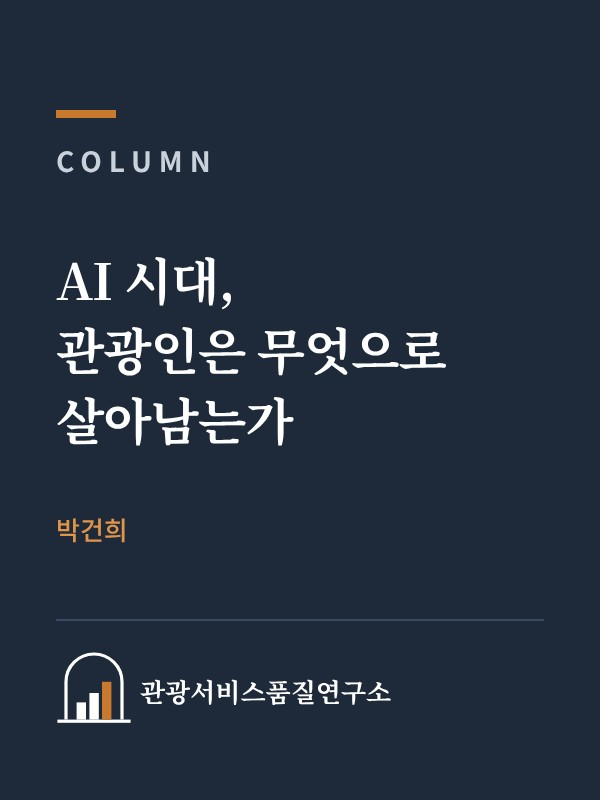
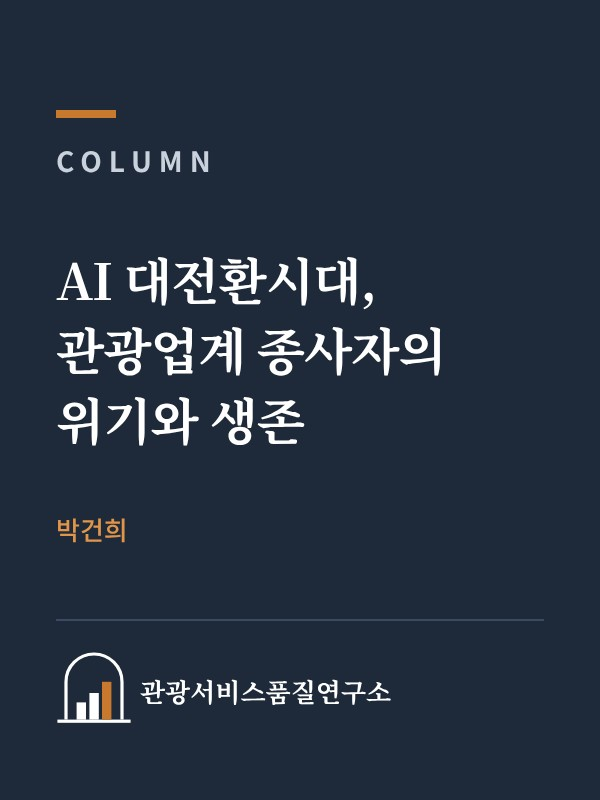
칼럼 전면 개정: AI 대전환시대, 관광업계 종사자의 위기와 생존에 대한 고찰(한·영)
- 제목 변경, '저자' 시점, 가이드 어조
- 타 산업 대체 사례(세일즈포스, 클라르나, WEF 2025)와 관광업계의 차이(헨나 호텔)
- 관광업계 종사자의 미래 전망(줄어드는/바뀌는/커지는 일)과 준비 가이드
- 표지 문구 변경

Claude-Session: https://claude.ai/code/session_01GuA5AHQ235NWh93TgZjSNS

Changed region(s): [[0.21, 0.3125, 0.75, 0.4688], [0.09, 0.5, 0.51, 0.5625]]

diff --git a/scripts/thumbs/covers_columns.py b/scripts/thumbs/covers_columns.py
@@ -17,7 +17,7 @@ SERIF = "'Noto Serif CJK KR','Noto Serif KR',serif"
 LOGO = lambda x, y, s: f'<g transform="translate({x} {y}) scale({s})"><path d="M50 347 V160 A140 140 0 0 1 330 160 V347" fill="none" stroke="{WHITE}" stroke-width="16"/><rect x="7" y="348" width="366" height="16" fill="{WHITE}"/><rect x="103" y="262" width="47" height="86" fill="{WHITE}"/><rect x="167" y="215" width="47" height="133" fill="{WHITE}"/><rect x="230" y="159" width="47" height="189" fill="{ORANGE}"/></g>'
 
 COVERS = {
-    'column-surviving-in-the-ai-era': (['AI 시대,', '관광인은 무엇으로', '살아남는가'], '박건희'),
+    'column-surviving-in-the-ai-era': (['AI 대전환시대,', '관광업계 종사자의', '위기와 생존'], '박건희'),
     'column-testing-is-asking': (['테스트는', '질문이다'], '박건희'),
     'column-kiosk-and-front-manager': (['키오스크가 두려웠던', '프런트 매니저가', '품질을 묻게 되기까지'], '박건희'),
     'column-housekeeping-seven-principles': (['하우스키핑 점검표로', '읽는 소프트웨어', '테스트 7원칙'], '박건희'),
@@ -28,7 +28,7 @@ COVERS = {
 }
 
 COVERS_EN = {
-    'column-surviving-in-the-ai-era': (['How Tourism', 'Workers Survive', 'the AI Era'], 'Winston Park'),
+    'column-surviving-in-the-ai-era': (['Crisis and', 'Survival in the', 'AI Transition'], 'Winston Park'),
     'column-testing-is-asking': (['Testing Is', 'Asking', 'Questions'], 'Winston Park'),
     'column-kiosk-and-front-manager': (['The Front Office', 'Manager Who', 'Feared Kiosks'], 'Winston Park'),
     'column-housekeeping-seven-principles': (['Seven Testing', 'Principles in a', 'Housekeeping List'], 'Winston Park'),

diff --git a/content/posts/column-surviving-in-the-ai-era.md b/content/posts/column-surviving-in-the-ai-era.md
@@ -1,79 +1,104 @@
 ---
-title: 비개발자 소장이 홈페이지를 만든 시대, 관광인은 무엇으로 살아남는가
-subtitle: '할 줄 아는 사람'의 시대가 저물고 '무엇이 맞는지 아는 사람'의 시대가 온다
+title: AI 대전환시대, 관광업계 종사자의 위기와 생존에 대한 고찰
+subtitle: 다른 산업의 대체 사례로 관광업계의 차이와 미래를 짚어 보고, 현장 종사자가 준비할 길을 함께 찾는다
 category: column
 author: director
 thumbnail: /images/posts/column-surviving-in-the-ai-era.jpg
 thumbnail_alt: AI 시대에 관광업계 종사자의 역량이 '할 줄 아는가'에서 '무엇을 할지 아는가, 맞는지 판단하는가, 책임질 수 있는가'로 옮겨 가는 모습을 나타낸 도식
 cover: /images/posts/column-surviving-in-the-ai-era-cover.jpg
 date: 2026-11-12
-summary: 코드 한 줄 써 본 적 없는 필자가 AI와 함께 연구소 홈페이지를 만들고 운영하고 있다. 할 줄 아는 것의 장벽이 무너지는 시대에 관광업계 종사자가 지켜야 할 것은 무엇인가. 업무를 나눠 보는 법부터 확인 규칙, 현장 지식의 문서화, 관리자의 역할까지 현실적인 방법을 제안한다.
-tags: [칼럼, 소장칼럼, AI, 관광인력, 직무역량, 환대]
+summary: 고객 상담과 사무직에서는 AI가 이미 사람의 일을 대신하기 시작했다. 다른 산업의 실제 사례를 통해 관광업계가 무엇이 다른지 살펴보고, 관광업계 종사자의 일이 어떻게 바뀔지 전망한 뒤, 현장 종사자가 지금부터 준비할 수 있는 길잡이를 제시한다.
+tags: [칼럼, 소장칼럼, AI, 관광인력, 직무역량, 환대, 미래전망]
 references:
+  - "World Economic Forum (2025.1.8). Future of Jobs Report 2025: 78 Million New Job Opportunities by 2030 but Urgent Upskilling Needed to Prepare Workforces. https://www.weforum.org/press/2025/01/future-of-jobs-report-2025-78-million-new-job-opportunities-by-2030-but-urgent-upskilling-needed-to-prepare-workforces/"
   - "World Economic Forum (2025.1). The Future of Jobs Report 2025. Chapter 3: Skills outlook. https://www.weforum.org/publications/the-future-of-jobs-report-2025/in-full/3-skills-outlook/"
+  - "TechRepublic (2025.9.3). Salesforce 'Needs Less Heads,' So It Cut 4,000 Jobs, As AI Takes Over. https://www.techrepublic.com/article/news-salesforce-cuts-4k-jobs/"
+  - "Computing (2025). Salesforce confirms 4,000 job cuts as AI takes over customer support. https://www.computing.co.uk/news/2025/ai/salesforce-confirm-4000-ai-driven-job-cuts"
+  - "Entrepreneur (2025.5.9). Klarna Is Hiring Customer Service Agents After AI Couldn't Cut It on Calls, According to the Company's CEO. https://www.entrepreneur.com/business-news/klarna-ceo-reverses-course-by-hiring-more-humans-not-ai/491396"
+  - "The Register (2019.1.15). World's first robot hotel massacres half of its robot staff (Wall Street Journal 보도 인용). https://www.theregister.com/2019/01/15/worlds_first_robot_hotel_massacres_robot_staff/"
   - "박건희 (2026). *이제 QA, AI Agent랑 같이 합시다*. 부크크."
 ---
 
-이 글이 실린 홈페이지는 내가 만들었다. 정확히 말하면 AI와 함께 만들었다.
+이 칼럼이 실린 연구소 홈페이지는 저자가 AI와 함께 만들었다.
 
-나는 개발자가 아니다. 이 홈페이지를 만들기 전까지 Git이라는 도구를 써 본 적도, Cloudflare라는 서비스의 이름을 들어 본 적도 거의 없었다. 그런데 지금 연구소 홈페이지는 자체 도메인을 달고 운영되고 있고, 관광정책과 호텔 산업 동향을 다룬 글이 꾸준히 올라오며, 한국어와 영어 두 언어로 읽힌다. 기사 초안을 쓰고, 도식을 그리고, 영어로 옮기고, 사이트에 올리는 일의 상당 부분을 AI가 함께 한다.
+저자는 개발자가 아니다. 이 홈페이지를 만들기 전까지 Git이라는 도구를 써 본 적도, Cloudflare라는 서비스를 다뤄 본 적도 없었다. 그런데 지금 연구소 홈페이지는 자체 도메인으로 운영되고, 관광정책과 호텔 산업 동향을 다룬 글이 꾸준히 올라오며, 한국어와 영어 두 언어로 읽힌다. 기사 초안을 쓰고, 도식을 그리고, 영어로 옮기고, 사이트에 올리는 일의 상당 부분을 AI가 함께 한다. 불과 얼마 전까지는 상상하기 어려운 일이었다.
 
-불과 얼마 전까지는 상상도 하지 못한 일이다. 웹사이트 하나를 만들려면 개발자를 구하고, 견적을 받고, 몇 달을 기다려야 했다. 그 모든 과정이 대화 몇 번으로 줄었다. 신기하고 편리하다. 그러나 솔직히 말하면, 그 편리함 뒤에서 오래전 프런트 데스크에서 느꼈던 것과 비슷한 질문이 다시 떠올랐다. 이렇게 AI가 다 할 수 있다면, 사람은 무엇으로 남는가.
+신기하고 편리한 경험이지만, 그 편리함은 한 가지 질문을 남겼다. 비전문가 한 사람이 AI와 함께 웹사이트를 만들 수 있다면, 관광업계에서 사람이 해 오던 일은 앞으로 어떻게 될 것인가. 이 글은 그 질문에 대한 저자의 생각을 정리한 것이다. 정답을 제시하려는 글이라기보다, 같은 고민을 하는 현장의 동료들과 함께 길을 찾아보려는 글로 읽어 주시면 좋겠다.
 
-## 무너진 것은 '할 줄 아는가'의 장벽이다
+## 다른 산업에서는 이미 시작되었다
 
-홈페이지를 만들며 분명히 알게 된 것이 있다. AI가 무너뜨린 것은 '할 줄 아는가'의 장벽이라는 점이다. 코드를 짤 줄 몰라도, 영어 문장을 다듬을 줄 몰라도, 도식을 그릴 줄 몰라도 결과물을 만들 수 있게 되었다. 관광업계도 다르지 않다. 고객 문의에 답하고, 리뷰에 답글을 달고, 보고서를 쓰고, 요금을 예측하는 일에 이미 AI가 들어와 있다.
+AI가 사람의 일을 대신하는 변화는 더 이상 먼 미래의 예측이 아니다. 가장 먼저 영향을 받은 곳은 고객 상담과 사무 업무이다.
 
-이 변화의 속도는 수치로도 확인된다. 세계경제포럼(WEF)의 「미래 일자리 보고서 2025(The Future of Jobs Report 2025)」에서 고용주들은 2030년까지 노동자가 가진 핵심 역량의 39%가 바뀔 것으로 내다보았고, 가장 빠르게 수요가 늘어날 역량으로 AI와 빅데이터를 꼽았다. 호텔 업계 역시 이미 깊숙이 들어와 있다. 연구소가 소개한 해외 조사에서는 호텔 체인의 91%가 AI를 쓰고 있었다([호텔 체인 91%가 AI를 쓰지만 성과를 확인한 곳은 13%, 도입보다 준비가 문제다](/posts/hotel-chain-ai-readiness-2026/)).
+미국의 기업용 소프트웨어 기업 세일즈포스(Salesforce)의 마크 베니오프(Marc Benioff) 최고경영자는 2025년 9월 한 팟캐스트에서 AI 에이전트 도입 이후 고객 지원 인력을 약 9,000명에서 5,000명으로 줄였다고 밝혔다. 그의 설명에 따르면 고객 대화의 절반은 AI가, 나머지 절반은 사람이 맡고 있다.
 
-그렇다면 '할 줄 아는 것'이 더 이상 경쟁력이 되지 못하는 시대에, 관광업계 종사자는 무엇을 붙들어야 하는가.
+반대 방향의 사례도 있다. 스웨덴의 결제 기업 클라르나(Klarna)는 2024년 2월 AI 상담원이 상담 직원 700명의 일을 하고 있다고 발표했지만, 2025년 5월에는 다시 상담 직원을 뽑기 시작했다. 세바스찬 시미아트코프스키(Sebastian Siemiatkowski) 최고경영자는 AI 중심 전략이 비용은 낮췄지만 응대의 질이 떨어졌다고 인정하며, 고객이 원하면 언제든 사람과 이야기할 수 있어야 한다고 말했다.
 
-## 무너지지 않은 것: 무엇을, 맞게, 책임지고
+전체적인 흐름은 세계경제포럼(WEF)의 「미래 일자리 보고서 2025(The Future of Jobs Report 2025)」에서 확인할 수 있다. 보고서는 2030년까지 일자리 1억 7,000만 개가 새로 생기고 9,200만 개가 사라져, 순증은 7,800만 개가 될 것으로 내다보았다. 빠르게 줄어드는 직무로는 계산원, 사무 보조, 그래픽 디자이너 등을 꼽았고, 응답 기업의 41%는 AI로 업무가 자동화되면서 인력을 줄일 계획이라고 답했다. 노동자가 가진 핵심 역량의 39%는 2030년까지 바뀔 것으로 전망되었다.
 
-홈페이지를 운영하며 AI와 일해 보니, AI가 대신하지 못한 일이 세 가지 있었다.
+두 기업의 사례와 보고서를 함께 보면 한 가지가 분명해진다. AI는 반복적이고 정형화된 일을 빠르게 대신하지만, 사람과의 관계와 신뢰가 중요한 일에서는 AI만으로 충분하지 않다는 것이다.
 
-첫째, **무엇을 만들지 정하는 일**이다. 어떤 글을 올릴지, 연구소 소개를 딱딱한 문어체로 쓸지 다정한 존댓말로 쓸지, 조회수를 보여 줄지 숨길지는 AI가 정해 주지 않았다. AI는 선택지를 여러 개 내놓았지만, 그중 무엇이 연구소다운지는 내가 판단해야 했다. 방향을 정하는 사람이 없으면 AI는 아무리 빨라도 어디로도 가지 않는다.
+## 관광업계는 무엇이 다른가
 
-둘째, **결과가 맞는지 판단하는 일**이다. AI가 만든 결과물에는 그럴듯하지만 고쳐야 할 부분이 섞여 있었다. 그것을 알아보려면 내가 그 분야를 알아야 했다. 기사의 숫자가 원문과 맞는지, 이 표현이 업계에서 실제로 쓰이는지, 이 해석이 호텔 현장의 감각과 어긋나지 않는지는 결국 현장을 아는 사람이 보아야 했다. 이것은 내가 QA 일을 하며 매일 느끼는 것과 같다. AI는 디럭스룸에 몇 명이 묵을 수 있는지, 우리 호텔의 취소 위약금이 어떻게 되는지 모른다.
+관광업계도 이 흐름에서 예외는 아니다. 예약 확인, 문의 응대, 리뷰 답글, 요금 산정처럼 정보를 다루는 일에는 이미 AI가 들어와 있다. 국내 숙박업에서도 셀프 체크인 키오스크가 무인 프런트로 진화하고 있고([체크인 기계에서 무인 프런트로, 국내 숙박 키오스크의 진화](/posts/kiosk-to-unmanned-front-2026/)), 연구소가 소개한 해외 조사에서는 호텔 체인의 91%가 이미 AI를 쓰고 있었다([호텔 체인 91%가 AI를 쓰지만 성과를 확인한 곳은 13%, 도입보다 준비가 문제다](/posts/hotel-chain-ai-readiness-2026/)).
 
-셋째, **책임지는 일**이다. 홈페이지에 글이 올라가는 순간, 그 글의 이름은 AI가 아니라 연구소이다. 틀린 내용이 있으면 사과하고 고치는 것도 사람이다. 고객 앞에서도 마찬가지다. AI가 안내한 객실 정보가 틀렸을 때 고객이 찾는 것은 시스템이 아니라 호텔의 사람이다.
+그러나 저자는 관광업계가 다른 산업과 세 가지 점에서 다르다고 본다.
 
-## 내일부터 할 수 있는 일
+첫째, **관광의 상품은 경험이고, 경험은 현장에서 만들어진다**. 고객은 객실과 식사, 그리고 그것을 건네는 사람의 태도를 한꺼번에 경험한다. 화면 속 답변만으로 일이 끝나는 상담 업무와 달리, 관광에서는 물리적 공간과 사람이 상품의 일부이다.
 
-막연히 "AI를 공부하라"는 말은 아무것도 바꾸지 못한다. 홈페이지를 만들고 QA 현장에서 AI와 일해 본 경험을 바탕으로, 현장 종사자가 내일부터 바로 해 볼 수 있는 방법을 정리해 본다.
+둘째, **예외 상황이 많다**. 항공편 지연으로 새벽에 도착한 가족, 기념일을 맞은 부부, 갑자기 몸이 아픈 투숙객처럼 정해진 규칙으로 처리할 수 없는 순간이 매일 생긴다. 이런 순간의 판단과 배려가 고객의 기억에 남는다.
 
-### 1. 내 업무를 세 칸으로 나눠 보라
+셋째, **기술만으로 운영하려던 시도가 이미 한계를 보였다**. 일본의 로봇 호텔 '헨나 호텔(Henn na Hotel)'은 2019년 로봇 직원의 절반가량을 철수시켰다. 월스트리트저널 보도를 인용한 The Register에 따르면, 객실의 로봇 비서는 투숙객의 코 고는 소리를 말로 알아듣고 잠을 깨웠고, 짐 운반 로봇은 평평한 바닥에서만 움직일 수 있어 일부 객실에만 갈 수 있었다. 결국 그 일들은 다시 사람에게 돌아왔다.
 
-일주일 동안 하는 일을 모두 적고, 세 칸으로 나눠 본다. AI에게 초안을 맡길 수 있는 일, AI와 함께하되 내가 확인해야 하는 일, 사람만 할 수 있는 일이다. 프런트라면 예약 확인 메일, 외국어 안내문, 근무 인수인계 요약은 첫째 칸에 가깝다. 요금·취소 문의 답변은 규정과 대조해야 하므로 둘째 칸이다. 화가 난 고객을 응대하고 보상 수준을 정하는 일, 단골 고객을 맞이하는 일은 셋째 칸이다. 이 표를 분기마다 다시 그려 보면, 내 일 가운데 무엇이 줄어들고 무엇을 키워야 하는지가 보인다.
+이런 차이 때문에 관광업계에서 AI는 사람을 통째로 대신하기보다, 사람이 하던 일의 구성을 바꾸는 방향으로 작용할 가능성이 크다. 한국이 관광발전지수에서 12위에 오르고도 환대 평판 지수는 65위에 머문 것도([관광발전지수 12위의 그늘, 환대 평판 65위가 숙박업에 묻는 것](/posts/ttdi-hospitality-reputation-2026/)), 기술이 채우지 못하는 사람의 몫이 아직 크다는 것을 보여 준다.
 
-### 2. 4주 동안 업무 하나만 바꿔 보라
+## 관광업계 종사자의 미래 전망
 
-처음부터 모든 일에 AI를 쓸 필요는 없다. 첫째 칸에서 가장 자주 하는 일 하나를 골라 4주 동안 AI와 함께 해 보고, 그 전후로 걸린 시간을 적어 둔다. 예약실이라면 고객 문의 답장 초안, 세일즈라면 기업 고객 제안서 초안, 하우스키핑이라면 점검표 정리, 지배인이라면 고객 불만 기록의 유형 분류가 좋은 출발점이다. 숫자로 남긴 경험은 상사에게 업무 방식을 바꾸자고 제안할 때 가장 설득력 있는 근거가 된다.
+다른 산업의 사례와 관광업계의 특성을 바탕으로, 저자는 관광업계 종사자의 일이 다음과 같이 바뀔 것으로 전망한다. 이는 저자의 개인적인 전망이며, 호텔과 조직의 규모나 고객층에 따라 속도와 모습은 다를 수 있다.
 
-### 3. 확인 규칙 세 가지를 습관으로 만들라
+**줄어드는 일**이 있다. 예약 접수와 확인, 정형화된 문의 답변, 단순한 체크인과 체크아웃 처리, 반복적인 보고서 작성이다. 이런 일은 키오스크, 모바일 체크인, AI 상담으로 빠르게 옮겨 가고 있다. 특히 야간처럼 고객 접점이 적은 시간대의 업무부터 변화가 클 것이다.
 
-AI가 만든 결과를 고객에게 보내기 전에 세 가지를 확인한다. 금액과 날짜는 직접 다시 계산한다. 규정과 안내는 우리 호텔의 실제 규정과 대조한다. 고객의 이름, 연락처, 예약 번호 같은 개인정보는 처음부터 넣지 않는다. 특히 마지막 규칙은 개인의 습관을 넘어 고객과의 신뢰 문제이다. 자세한 원칙은 [호텔 고객 데이터를 AI에 넣기 전에 확인할 것](/posts/hotel-data-ai-agent/)에 정리하였다.
+**모습이 바뀌는 일**이 있다. 프런트 직원은 서류를 처리하는 사람에서 고객의 체류를 설계하고 문제를 해결하는 사람으로, 예약 담당은 예약을 받는 사람에서 채널과 요금을 관리하는 사람으로 역할이 옮겨 갈 것이다. 수익관리자는 요금을 직접 계산하기보다 AI가 제안한 요금이 호텔의 전략에 맞는지 판단하는 일에 더 많은 시간을 쓰게 될 것이다([AI가 객실 요금을 정할 때, 수익관리자는 무엇을 정하는가](/posts/ai-rms-guardrails-2026/)).
 
-### 4. 현장 지식을 문서로 남겨라
+**새로 생기거나 커지는 일**이 있다. 호텔에 들어온 여러 시스템을 운영하고 연결하는 일, AI가 만든 결과와 고객 데이터를 관리하는 일, 기술로 아낀 시간을 활용해 더 깊은 환대를 설계하는 일이다. 현장을 알면서 시스템을 이해하는 사람은 지금도 드물고, 앞으로 더 귀해질 것이다.
 
-객실 타입별 최대 인원, 취소 규정, 자주 생기는 예외 상황과 그때의 대응, 반복되는 고객 불만과 해결 사례를 한 문서에 모아 둔다. 이 문서는 AI에게 일을 맡길 때 함께 건네는 맥락이 되어 결과의 정확도를 크게 높인다. 동시에 그것은 내 경력을 증명하는 자산이 된다. AI가 모르는 것을 정리해 둔 사람이 AI를 가장 잘 쓰는 사람이다. AI에게 일을 맡기는 요령은 [AI 에이전트와 함께하는 QA 업무 가이드, 맡길 일과 판단할 일](/posts/report-ai-agent-qa-workflow/)에서 다루었다.
+정리하면, 관광업계에서 사라지는 것은 '일자리' 전체라기보다 일자리 안의 '반복되는 업무'이다. 그 빈자리를 무엇으로 채우느냐에 따라 개인의 미래가 달라질 것이다.
 
-### 5. 아낀 시간을 어디에 쓸지 먼저 정하라
+## 지금부터 준비할 수 있는 길
 
-AI로 줄어든 시간이 또 다른 서류 작업으로 채워지면 고객은 아무것도 느끼지 못한다. 하루 30분을 아꼈다면 그 시간을 고객에게 돌려줄 방법을 미리 정해 둔다. 도착 전 고객 기록을 읽고 맞이를 준비하는 것, 체류 중 한 번 먼저 안부를 묻는 것, 불만을 남긴 고객에게 퇴실 전 다시 연락하는 것이 그 예이다. 기술이 사람의 일을 줄이는 만큼 환대가 깊어져야 한다. 한국이 관광발전지수에서 12위에 오르고도 환대 평판은 65위에 머문 것은, 기술보다 사람의 몫이 아직 많이 남아 있다는 뜻이기도 하다([관광발전지수 12위의 그늘, 환대 평판 65위가 숙박업에 묻는 것](/posts/ttdi-hospitality-reputation-2026/)).
+그렇다면 현장 종사자는 무엇을 준비하면 좋을까. 저자가 홈페이지를 만들고 QA 현장에서 AI와 일해 본 경험을 바탕으로, 부담 없이 시작해 볼 수 있는 방법을 길잡이 삼아 정리해 본다.
 
-### 6. 한 걸음 옆의 직무를 보라
+### 1. 내 업무를 세 갈래로 나눠 보기
 
-현장 경력이 그대로 통하는 디지털 직무는 생각보다 많다. 호텔 IT 기업의 QA나 도입 지원, 객실관리시스템(PMS) 운영 담당, 수익관리와 데이터 분석, 고객관계관리(CRM)와 디지털 마케팅이 그렇다. 당장 이직할 필요는 없다. 사내에서 새 시스템을 도입할 때 현장 대표로 손을 들고, 시스템 오류를 정리해 IT 담당자에게 전달하는 역할부터 맡아 보는 것이 시작이다. 나 역시 프런트에서 쌓은 감각을 들고 QA로 옮겨 왔고, 그 과정에서 국제 소프트웨어 테스트 자격(ISTQB)을 공부하며 경험에 이름을 붙였다.
+일주일 동안 하는 일을 적어 보고, AI에게 초안을 맡길 수 있는 일, AI와 함께하되 직접 확인해야 하는 일, 사람만 할 수 있는 일로 나눠 보는 것부터 시작해 볼 수 있다. 프런트라면 예약 확인 메일이나 외국어 안내문은 첫째, 요금과 취소 문의 답변은 둘째, 화가 난 고객을 응대하고 단골 고객을 맞이하는 일은 셋째에 가까울 것이다. 이 표를 분기마다 다시 그려 보면, 본인의 일 가운데 무엇이 줄어들고 무엇을 키워 가면 좋을지 자연스럽게 보이기 시작한다.
 
-### 관리자라면
+### 2. 작은 업무 하나로 AI와 친해지기
 
-개인의 노력만으로는 한계가 있다. 관리자라면 세 가지를 먼저 마련해 주기를 권한다. 첫째, 어떤 AI 도구를 어떤 정보까지 넣어 써도 되는지 사용 규칙을 정한다. 규칙이 없으면 직원들은 몰래 쓰거나 아예 쓰지 않는다. 둘째, 업무를 줄인 직원이 그 시간을 고객 응대에 쓸 수 있도록 평가 기준을 바꾼다. 처리 건수만 세면 아낀 시간은 다시 서류로 돌아간다. 셋째, 부서마다 AI를 먼저 써 본 직원이 동료에게 사례를 나누는 짧은 자리를 정기적으로 만든다. 현장의 변화는 교육보다 옆자리 동료의 사례에서 더 빨리 퍼진다.
+처음부터 모든 일에 AI를 쓸 필요는 없다. 자주 하는 업무 하나를 골라 몇 주 동안 AI와 함께 해 보고, 걸린 시간을 전후로 적어 두는 정도면 충분하다. 예약실이라면 문의 답장 초안, 세일즈라면 제안서 초안, 하우스키핑이라면 점검표 정리, 지배인이라면 고객 불만 기록의 분류가 좋은 출발점이 될 수 있다. 직접 써 본 경험이 쌓이면 무엇을 맡기고 무엇을 지켜야 하는지 감이 생기고, 숫자로 남긴 기록은 팀의 일하는 방식을 바꾸자고 제안할 때 든든한 근거가 된다.
+
+### 3. 확인하는 습관 들이기
+
+AI가 만든 결과는 그럴듯하지만 틀린 부분이 섞여 있을 수 있다. 고객에게 보내기 전에 금액과 날짜를 다시 계산하고, 우리 호텔의 실제 규정과 대조하고, 고객의 개인정보는 처음부터 넣지 않는 세 가지만 지켜도 실수를 크게 줄일 수 있다. 자세한 원칙은 [호텔 고객 데이터를 AI에 넣기 전에 확인할 것](/posts/hotel-data-ai-agent/)에 정리해 두었다.
+
+### 4. 현장의 지식을 기록으로 남기기
+
+객실별 최대 인원, 취소 규정, 자주 생기는 예외 상황과 그때의 대응, 반복되는 고객 불만과 해결 사례를 한 문서에 모아 두기를 권하고 싶다. 이 기록은 AI에게 일을 맡길 때 함께 건네는 맥락이 되어 결과를 훨씬 정확하게 만들어 준다. 동시에 본인의 경험을 보여 주는 소중한 자산이 된다. AI가 모르는 것을 정리해 둔 사람이 결국 AI를 가장 잘 쓰는 사람이 된다.
+
+### 5. 아낀 시간을 환대에 돌려주기
+
+AI로 줄어든 시간이 또 다른 서류 작업으로 채워진다면 고객은 아무런 차이를 느끼지 못한다. 아낀 시간을 고객에게 돌려줄 방법을 미리 정해 두면 좋다. 도착 전 고객 기록을 읽고 맞이를 준비하는 것, 체류 중 한 번 먼저 안부를 묻는 것, 불만을 남긴 고객에게 퇴실 전 다시 인사하는 것이 그 예이다. 기술이 사람의 일을 덜어 줄수록 환대는 더 깊어질 수 있다.
+
+### 6. 한 걸음 옆의 직무에 관심 두기
+
+현장 경력이 그대로 살아나는 디지털 직무는 생각보다 많다. 호텔 IT 기업의 QA나 도입 지원, 객실관리시스템(PMS) 운영, 수익관리와 데이터 분석, 고객관계관리(CRM)와 디지털 마케팅이 그렇다. 당장 자리를 옮기지 않더라도, 회사에서 새 시스템을 도입할 때 현장의 목소리를 전하는 역할을 맡아 보는 것만으로도 좋은 시작이 된다. 저자 역시 프런트에서 쌓은 감각을 바탕으로 QA 업무로 옮겨 왔고, 그 과정에서 국제 소프트웨어 테스트 자격(ISTQB)을 공부하며 현장의 경험에 이름을 붙일 수 있었다.
+
+### 조직을 이끄는 분들께
+
+개인의 노력만으로는 한계가 있기에, 관리자와 경영진의 역할도 중요하다. 어떤 AI 도구를 어떤 정보까지 넣어 써도 되는지 사용 규칙을 마련해 두면 직원들이 안심하고 시도할 수 있다. 처리 건수만이 아니라 고객 응대의 질을 함께 평가한다면, 아낀 시간이 자연스럽게 고객에게 돌아간다. 부서마다 AI를 먼저 써 본 직원이 동료에게 경험을 나누는 짧은 자리를 만들어 보는 것도 좋다. 현장의 변화는 교육보다 옆자리 동료의 사례에서 더 빨리 퍼지기 마련이다.
 
 > AI가 대신하는 것은 일의 일부이지, 그 일이 왜 필요한지 아는 사람이 아니다.
 
-## 두려움을 질문으로 바꾸며
+## 위기를 질문으로 바꾸며
 
-호텔 프런트 데스크에서 일하던 시절, 나는 키오스크가 내 일을 대신할 것이라는 두려움을 느꼈다. 그 두려움은 나를 호텔 IT의 세계로 이끌었고, 지금은 AI 에이전트와 함께 일하는 법에 관한 책을 쓰고, AI와 함께 홈페이지를 만들고, 연구소를 운영하고 있다. 돌아보면 나를 지켜 준 것은 기술을 먼저 배운 것이 아니라, 현장에서 쌓은 감각을 놓지 않은 채 새로운 도구에 손을 뻗은 것이었다.
+호텔 프런트 데스크에서 일하던 시절, 저자는 키오스크가 언젠가 이 일을 대신할 것이라는 두려움을 느꼈다. 그 두려움은 저자를 호텔 IT의 세계로 이끌었고, 지금은 AI 에이전트와 함께 일하는 법에 관한 책을 쓰고, AI와 함께 홈페이지를 만들고, 연구소를 운영하고 있다. 돌아보면 저자를 지켜 준 것은 기술을 먼저 익힌 것이 아니라, 현장에서 쌓은 감각을 놓지 않은 채 새로운 도구에 손을 뻗은 것이었다.
 
-AI 시대에 관광업계 종사자가 살아남는 길은 AI보다 빨라지는 데 있지 않다. AI가 내놓은 답 앞에서 "이것이 정말 고객에게 맞는가"라고 물을 수 있는 사람으로 남는 데 있다. 그 질문은 현장을 겪은 사람만이 던질 수 있고, 그 질문이 있는 한 관광은 여전히 사람의 산업이다.
+AI 대전환의 시대는 관광업계 종사자에게 분명 위기이다. 그러나 다른 산업의 사례가 보여 주듯, AI가 빠르게 대신할 수 있는 것은 반복되는 업무이고, 사람과 사람 사이의 신뢰와 배려는 여전히 사람의 몫으로 남아 있다. AI가 내놓은 답 앞에서 "이것이 정말 고객에게 맞는가"라고 물을 수 있는 사람으로 남는다면, 관광은 앞으로도 사람의 산업일 것이다. 이 글이 같은 고민을 하는 현장의 동료들에게 작은 길잡이가 되기를 바란다.

diff --git a/content/posts/en/column-surviving-in-the-ai-era.md b/content/posts/en/column-surviving-in-the-ai-era.md
@@ -1,79 +1,104 @@
 ---
-title: "A Non-Developer Director Built a Website: How Will Tourism Workers Survive the AI Era?"
-subtitle: "The age of 'people who can do it' is ending; the age of 'people who know what is right' is beginning"
+title: "Crisis and Survival for Tourism Workers in the Great AI Transition: A Reflection"
+subtitle: Looking at how tourism differs from industries where AI is already replacing work, what lies ahead for tourism workers, and how to prepare together
 category: column
 author: director
 thumbnail: /images/posts/en/column-surviving-in-the-ai-era.jpg
 thumbnail_alt: Diagram showing tourism workers' strengths shifting in the AI era from "Can you do it?" to "Do you know what to make, can you tell if it is right, can you take responsibility?"
 cover: /images/posts/en/column-surviving-in-the-ai-era-cover.jpg
 date: 2026-11-12
-summary: I have never written a line of code, yet I built and now run the Lab's website with AI. As the barrier of knowing how to do things collapses, what should tourism workers hold on to? I propose practical steps, from splitting up your work and setting checking rules to documenting front-line knowledge and the role of managers.
-tags: [Columns, Director's Column, AI, Tourism Workforce, Job Skills, Hospitality]
+summary: In customer support and office work, AI has already begun to take over people's jobs. Using real cases from other industries, this column looks at how tourism differs, offers an outlook on how tourism workers' jobs will change, and suggests a guide for what front-line workers can prepare from now on.
+tags: [Columns, Director's Column, AI, Tourism Workforce, Job Skills, Hospitality, Future Outlook]
 references:
+  - "World Economic Forum (2025.1.8). Future of Jobs Report 2025: 78 Million New Job Opportunities by 2030 but Urgent Upskilling Needed to Prepare Workforces. https://www.weforum.org/press/2025/01/future-of-jobs-report-2025-78-million-new-job-opportunities-by-2030-but-urgent-upskilling-needed-to-prepare-workforces/"
   - "World Economic Forum (2025.1). The Future of Jobs Report 2025. Chapter 3: Skills outlook. https://www.weforum.org/publications/the-future-of-jobs-report-2025/in-full/3-skills-outlook/"
+  - "TechRepublic (2025.9.3). Salesforce 'Needs Less Heads,' So It Cut 4,000 Jobs, As AI Takes Over. https://www.techrepublic.com/article/news-salesforce-cuts-4k-jobs/"
+  - "Computing (2025). Salesforce confirms 4,000 job cuts as AI takes over customer support. https://www.computing.co.uk/news/2025/ai/salesforce-confirm-4000-ai-driven-job-cuts"
+  - "Entrepreneur (2025.5.9). Klarna Is Hiring Customer Service Agents After AI Couldn't Cut It on Calls, According to the Company's CEO. https://www.entrepreneur.com/business-news/klarna-ceo-reverses-course-by-hiring-more-humans-not-ai/491396"
+  - "The Register (2019.1.15). World's first robot hotel massacres half of its robot staff (Wall Street Journal 보도 인용). https://www.theregister.com/2019/01/15/worlds_first_robot_hotel_massacres_robot_staff/"
   - "박건희 (2026). *이제 QA, AI Agent랑 같이 합시다*. 부크크."
 ---
 
-I built the website this column appears on. More precisely, I built it with AI.
+The Lab's website, where this column appears, was built by the author together with AI.
 
-I am not a developer. Until I made this website, I had never used a tool called Git and had barely heard of a service called Cloudflare. Yet the Lab's website now runs on its own domain, regularly publishes articles on tourism policy and hotel industry trends, and can be read in both Korean and English. AI helps with much of the work of drafting articles, drawing charts, translating into English and publishing them on the site.
+The author is not a developer. Before building this website, he had never used a tool called Git or worked with a service called Cloudflare. Yet the Lab's website now runs on its own domain, regularly publishes articles on tourism policy and hotel industry trends, and can be read in both Korean and English. AI helps with much of the work of drafting articles, drawing charts, translating into English and publishing them on the site. Until very recently, this would have been hard to imagine.
 
-Until very recently, this was unimaginable. Making a website meant finding a developer, getting a quote and waiting months. All of that has shrunk to a few conversations. It is remarkable and convenient. But to be honest, behind that convenience a question resurfaced, much like the one I felt long ago at the front desk: if AI can do all this, what is left for people?
+It has been a remarkable and convenient experience, but that convenience left a question behind. If one non-specialist can build a website with AI, what will become of the work people have done in the tourism industry? This column sets out the author's thoughts on that question. Rather than claiming to have the answer, it is meant as an attempt to find a way forward together with colleagues on the front line who share the same concern.
 
-## What has collapsed is the barrier of "can you do it?"
+## It has already begun in other industries
 
-Building the website made one thing clear. What AI has broken down is the barrier of whether you know how to do something. You can now produce results without knowing how to code, polish English sentences or draw charts. The tourism industry is no different. AI is already part of answering guest inquiries, replying to reviews, writing reports and forecasting rates.
+AI taking over people's work is no longer a distant forecast. The first areas affected have been customer support and office work.
 
-The pace of change shows in the numbers. In the World Economic Forum (WEF) *Future of Jobs Report 2025*, employers expected 39% of workers' core skills to change by 2030, and named AI and big data as the fastest-growing skills. The hotel industry is already deep into this. In an overseas study the Lab reported on, 91% of hotel chains were using AI ([91% of Hotel Chains Use AI, but Only 13% Report Measurable Returns: Readiness, Not Adoption, Is the Problem](/posts/hotel-chain-ai-readiness-2026/)).
+Marc Benioff, CEO of US enterprise software company Salesforce, said on a podcast in September 2025 that after introducing AI agents the company had reduced its customer support staff from about 9,000 to 5,000. According to him, AI now handles half of customer conversations and people handle the other half.
 
-So in an age when "knowing how" is no longer an advantage, what should tourism workers hold on to?
+There are cases in the opposite direction too. Swedish payments company Klarna announced in February 2024 that its AI assistant was doing the work of 700 customer service agents, but in May 2025 it began hiring customer service staff again. CEO Sebastian Siemiatkowski acknowledged that the AI-focused strategy had lowered costs but reduced the quality of service, and said customers should always be able to talk to a person if they want to.
 
-## What has not collapsed: what, whether it is right, and who answers for it
+The broader trend can be seen in the World Economic Forum (WEF) *Future of Jobs Report 2025*. The report projects that 170 million jobs will be created and 92 million displaced by 2030, a net increase of 78 million. Among the fastest-declining roles it lists cashiers, administrative assistants and graphic designers, and 41% of employers said they plan to reduce their workforce as AI automates tasks. Employers expect 39% of workers' core skills to change by 2030.
 
-Running the website with AI, I found three things AI did not do for me.
+Taken together, the two company cases and the report make one thing clear: AI quickly takes over repetitive, standardised work, but where relationships and trust matter, AI alone is not enough.
 
-First, **deciding what to make**. AI did not decide which articles to publish, whether to write the Lab's introduction in a stiff written style or a warm polite tone, or whether to show or hide view counts. AI offered several options, but I had to judge which one suited the Lab. Without someone to set the direction, AI goes nowhere, however fast it is.
+## How is tourism different?
 
-Second, **judging whether the result is right**. What AI produced contained parts that looked plausible but needed fixing. To spot them, I had to know the field. Whether an article's numbers match the source, whether an expression is actually used in the industry, whether an interpretation fits the feel of the hotel front line: in the end, someone who knows the front line had to look. This is the same thing I feel every day in QA work. AI does not know how many guests a deluxe room holds, or what our hotel's cancellation penalty is.
+Tourism is no exception to this trend. AI is already part of information work such as confirming bookings, answering inquiries, replying to reviews and setting rates. In Korean lodging, self check-in kiosks are evolving into unmanned front desks ([From Check-In Machine to Unmanned Front Desk: How Lodging Kiosks Are Evolving in Korea](/posts/kiosk-to-unmanned-front-2026/)), and in an overseas study the Lab reported on, 91% of hotel chains were already using AI ([91% of Hotel Chains Use AI, but Only 13% Report Measurable Returns: Readiness, Not Adoption, Is the Problem](/posts/hotel-chain-ai-readiness-2026/)).
 
-Third, **taking responsibility**. The moment an article goes up on the website, the name on it is not AI's but the Lab's. If something is wrong, it is a person who apologises and corrects it. The same is true in front of guests. When room information given by AI turns out to be wrong, guests look not for the system but for a person at the hotel.
+The author, however, sees three ways in which tourism differs from other industries.
 
-## What you can start doing tomorrow
+First, **the product of tourism is an experience, and experiences are made on site**. Guests experience the room, the meal and the attitude of the person serving them all at once. Unlike support work that ends with an answer on a screen, in tourism the physical space and the people are part of the product.
 
-Vague advice to "study AI" changes nothing. Drawing on my experience of building the website and working with AI in QA, here are methods front-line workers can try right away.
+Second, **exceptions are frequent**. A family arriving at dawn after a delayed flight, a couple celebrating an anniversary, a guest who suddenly falls ill: every day brings moments that fixed rules cannot handle. The judgement and care shown in those moments are what guests remember.
 
-### 1. Split your work into three columns
+Third, **attempts to run on technology alone have already shown their limits**. Japan's robot hotel, Henn na Hotel, retired about half of its robot staff in 2019. According to The Register, citing The Wall Street Journal, the in-room robot assistant mistook guests' snoring for speech and woke them up, and the luggage robots could move only on flat floors and so reached only some rooms. In the end, that work went back to people.
 
-Write down everything you do in a week and sort it into three columns: work you can hand to AI as a first draft, work you do with AI but must check yourself, and work only a person can do. At the front desk, booking confirmation emails, foreign-language notices and shift handover summaries belong close to the first column. Answers to rate and cancellation questions go in the second, because they must be checked against the rules. Handling an angry guest and deciding on compensation, or welcoming a regular, go in the third. Redraw this table every quarter and you will see which parts of your work are shrinking and which you need to grow.
+Because of these differences, AI in tourism is more likely to change the make-up of people's work than to replace people outright. That Korea ranked 12th in the Travel & Tourism Development Index but only 65th on the hospitality reputation index ([The Shadow Behind 12th Place: What a Hospitality Reputation Rank of 65th Asks of Korean Lodging](/posts/ttdi-hospitality-reputation-2026/)) also shows how large a share remains for people where technology falls short.
 
-### 2. Change just one task for four weeks
+## The outlook for tourism workers
 
-There is no need to use AI for everything from the start. Pick the task you do most often from the first column, do it with AI for four weeks, and record how long it took before and after. Good starting points are draft replies to guest inquiries in reservations, draft proposals for corporate clients in sales, tidying the inspection checklist in housekeeping, and classifying guest complaint records by type for duty managers. Experience recorded in numbers is the most persuasive evidence when you propose a change in how your team works.
+Based on the cases from other industries and the characteristics of tourism, the author expects tourism workers' jobs to change as follows. This is the author's personal outlook, and the pace and shape of change may differ by the size of the hotel or organisation and its guest mix.
 
-### 3. Make three checking rules a habit
+**Some work will shrink**: taking and confirming bookings, answering standard inquiries, simple check-in and check-out, and writing routine reports. This work is moving quickly to kiosks, mobile check-in and AI support. Change will be greatest first in tasks with little guest contact, such as those at night.
 
-Before sending anything AI has produced to a guest, check three things. Recalculate amounts and dates yourself. Compare rules and guidance against your hotel's actual policies. Never enter personal data such as guests' names, contact details or booking numbers in the first place. The last rule in particular is a matter of trust with guests, not just personal habit. The principles are set out in [What to Check Before Putting Hotel Guest Data into AI](/posts/hotel-data-ai-agent/).
+**Some work will change shape**. Front desk staff will move from processing paperwork to designing guests' stays and solving problems, and reservations staff from taking bookings to managing channels and rates. Revenue managers will spend less time calculating rates themselves and more time judging whether rates proposed by AI fit the hotel's strategy ([When AI Sets Room Rates, What Does the Revenue Manager Decide?](/posts/ai-rms-guardrails-2026/)).
 
-### 4. Write down your front-line knowledge
+**Some work will be created or grow**: operating and connecting the many systems hotels now use, managing AI output and guest data, and designing deeper hospitality with the time technology saves. People who know the front line and understand systems are rare today and will become more valuable.
 
-Gather in one document the maximum occupancy for each room type, cancellation rules, frequent exceptions and how to handle them, and recurring guest complaints with how they were resolved. This document becomes the context you hand to AI along with a task, greatly improving the accuracy of the results. At the same time, it becomes an asset that proves your experience. The person who has written down what AI does not know is the person who uses AI best. Tips on delegating work to AI are covered in [A Guide to QA Work with AI Agents: What to Delegate and What to Judge](/posts/report-ai-agent-qa-workflow/).
+In short, what disappears in tourism is less the "job" as a whole than the "repetitive tasks" within it. What fills that space will shape each person's future.
 
-### 5. Decide first where the saved time will go
+## Ways to prepare from now on
 
-If the time AI saves is filled with more paperwork, guests feel nothing. If you save 30 minutes a day, decide in advance how to give that time back to guests: reading a guest's history before arrival to prepare the welcome, checking in once during the stay before they ask, or contacting a guest who complained before they check out. Hospitality must deepen as much as technology reduces people's work. That Korea ranked 12th in the Travel & Tourism Development Index but only 65th for hospitality reputation also suggests that much remains for people rather than technology ([The Shadow Behind 12th Place: What a Hospitality Reputation Rank of 65th Asks of Korean Lodging](/posts/ttdi-hospitality-reputation-2026/)).
+So what can front-line workers prepare? Drawing on the author's experience of building the website and working with AI in QA, here are some low-pressure ways to begin, offered as a guide.
 
-### 6. Look at the job one step to the side
+### 1. Sort your work into three groups
 
-There are more digital roles where front-line experience carries over than you might think: QA or implementation support at hotel IT companies, property management system (PMS) administration, revenue management and data analysis, and customer relationship management (CRM) and digital marketing. There is no need to change jobs right away. Start by volunteering as the front-line representative when your hotel introduces a new system, or by collecting system errors and passing them to the IT team. I, too, moved from the front desk to QA carrying the sense I had built there, and along the way I studied for the international software testing qualification (ISTQB) and put names to my experience.
+You can begin by writing down what you do in a week and sorting it into work you can hand to AI as a first draft, work you do with AI but must check yourself, and work only a person can do. At the front desk, booking confirmation emails and foreign-language notices would fall close to the first group, answers to rate and cancellation questions to the second, and handling an angry guest or welcoming a regular to the third. Redrawing this table every quarter, you will naturally begin to see which parts of your work are shrinking and which are worth growing.
 
-### For managers
+### 2. Get comfortable with AI through one small task
 
-Individual effort has limits. If you are a manager, I recommend putting three things in place first. First, set rules on which AI tools may be used and with what information. Without rules, staff either use AI in secret or not at all. Second, change evaluation criteria so that staff who save time can spend it on guests. If you count only volume handled, the saved time goes back to paperwork. Third, create a regular short session in each department where staff who tried AI first share examples with colleagues. Change on the front line spreads faster through the colleague at the next desk than through training.
+There is no need to use AI for everything from the start. It is enough to pick one task you do often, do it with AI for a few weeks, and note how long it took before and after. Good starting points might be draft replies to inquiries in reservations, draft proposals in sales, tidying the inspection checklist in housekeeping, or classifying guest complaint records for duty managers. As hands-on experience builds, you develop a feel for what to hand over and what to keep, and a record in numbers is solid evidence when you propose a change in how your team works.
+
+### 3. Build the habit of checking
+
+What AI produces can look plausible yet contain mistakes. Before sending anything to a guest, simply recalculating amounts and dates, comparing it against your hotel's actual policies, and never entering guests' personal data in the first place can greatly reduce errors. The principles are set out in [What to Check Before Putting Hotel Guest Data into AI](/posts/hotel-data-ai-agent/).
+
+### 4. Keep a record of front-line knowledge
+
+The author would recommend gathering in one document the maximum occupancy for each room type, cancellation rules, frequent exceptions and how to handle them, and recurring guest complaints with how they were resolved. This record becomes the context you hand to AI along with a task, making the results far more accurate. At the same time, it becomes a valuable asset that shows your experience. In the end, the person who has written down what AI does not know becomes the person who uses AI best.
+
+### 5. Give the time you save back to hospitality
+
+If the time AI saves is filled with more paperwork, guests will notice no difference. It helps to decide in advance how to give that time back to guests: reading a guest's history before arrival to prepare the welcome, checking in once during the stay before they ask, or greeting a guest who complained once more before they check out. The more technology lightens people's work, the deeper hospitality can become.
+
+### 6. Take an interest in the job one step to the side
+
+There are more digital roles where front-line experience comes to life than you might think: QA or implementation support at hotel IT companies, property management system (PMS) operations, revenue management and data analysis, and customer relationship management (CRM) and digital marketing. Even without changing jobs right away, taking on the role of conveying the front line's voice when your company introduces a new system is a good start. The author, too, moved into QA building on the sense developed at the front desk, and along the way studied for the international software testing qualification (ISTQB) and was able to put names to his front-line experience.
+
+### For those who lead organisations
+
+Because individual effort has limits, the role of managers and executives also matters. Setting rules on which AI tools may be used and with what information lets staff try them with confidence. Evaluating the quality of guest service, not just volume handled, allows the time saved to flow naturally back to guests. It also helps to create short sessions in each department where staff who tried AI first share their experience with colleagues. Change on the front line tends to spread faster through the colleague at the next desk than through training.
 
 > What AI replaces is part of the work, not the person who knows why that work is needed.
 
-## Turning fear into questions
+## Turning crisis into questions
 
-When I worked at a hotel front desk, I feared that kiosks would take over my job. That fear led me into the world of hotel IT, and today I have written a book about working with AI agents, built a website with AI and run a research lab. Looking back, what protected me was not learning technology first, but reaching for new tools without letting go of the sense I had built on the front line.
+When he worked at a hotel front desk, the author feared that kiosks would one day take over that work. That fear led him into the world of hotel IT, and today he has written a book about working with AI agents, built a website with AI and runs a research lab. Looking back, what protected him was not learning technology first, but reaching for new tools without letting go of the sense built on the front line.
 
-The way for tourism workers to survive the AI era is not to become faster than AI. It is to remain the people who can ask, in front of an answer AI has given, "Is this really right for the guest?" Only those who have worked on the front line can ask that question, and as long as that question exists, tourism remains an industry of people.
+The great AI transition is clearly a crisis for tourism workers. Yet as the cases from other industries show, what AI can quickly replace is repetitive work, while trust and care between people remain the work of people. As long as we remain people who can ask, in front of an answer AI has given, "Is this really right for the guest?", tourism will remain an industry of people. The author hopes this column serves as a small guide for colleagues on the front line who share the same concern.
